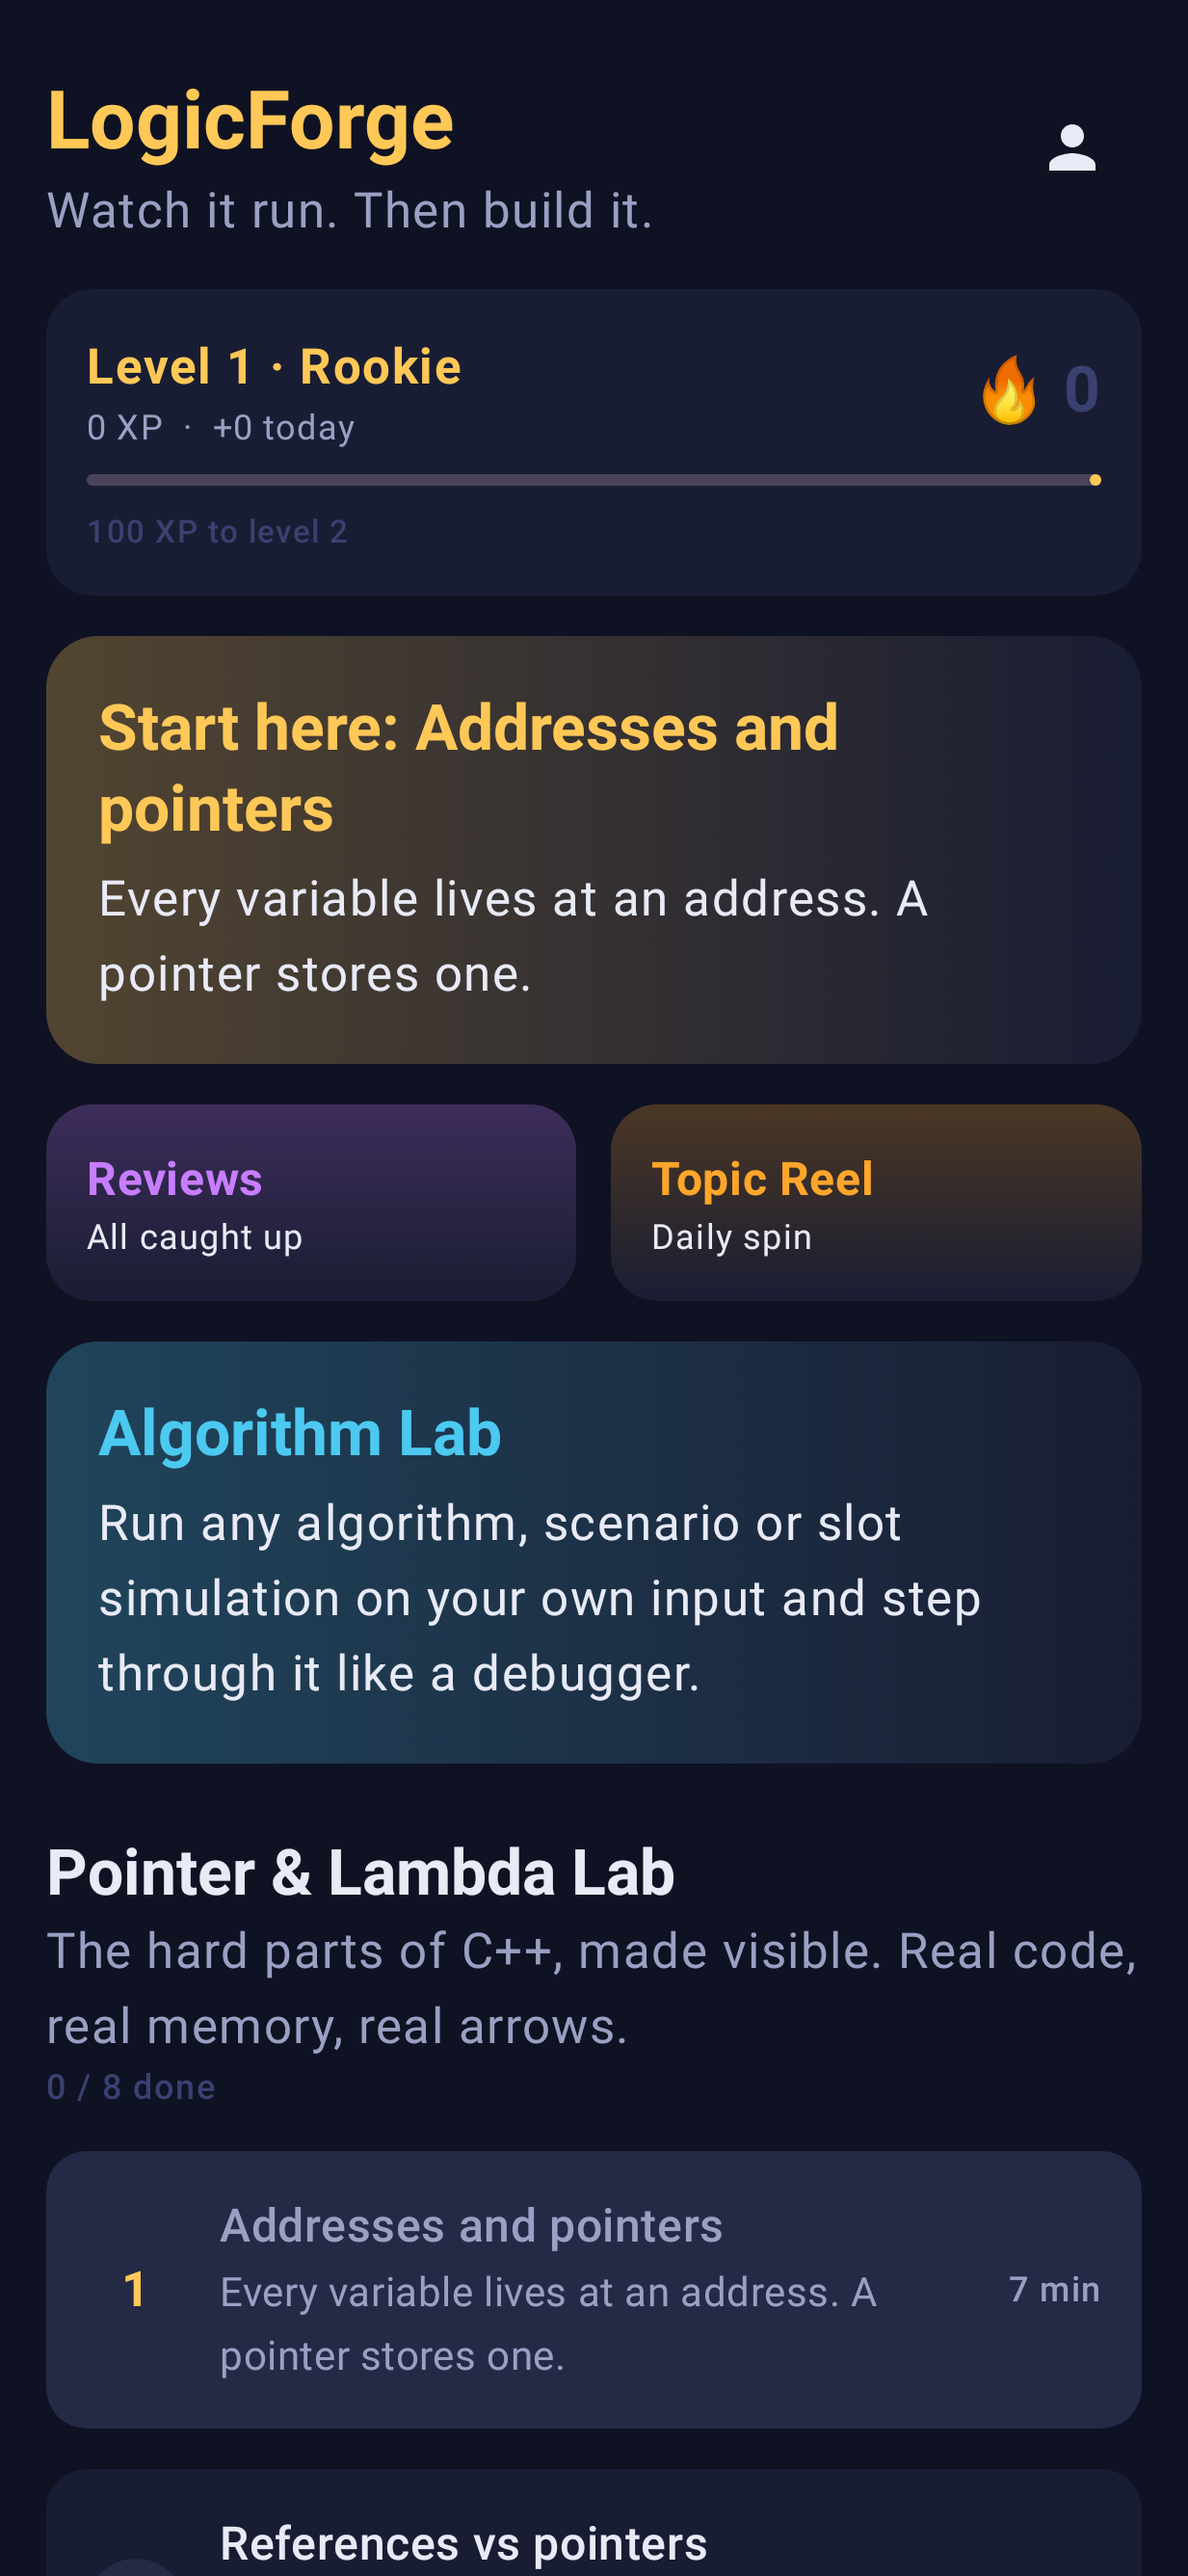
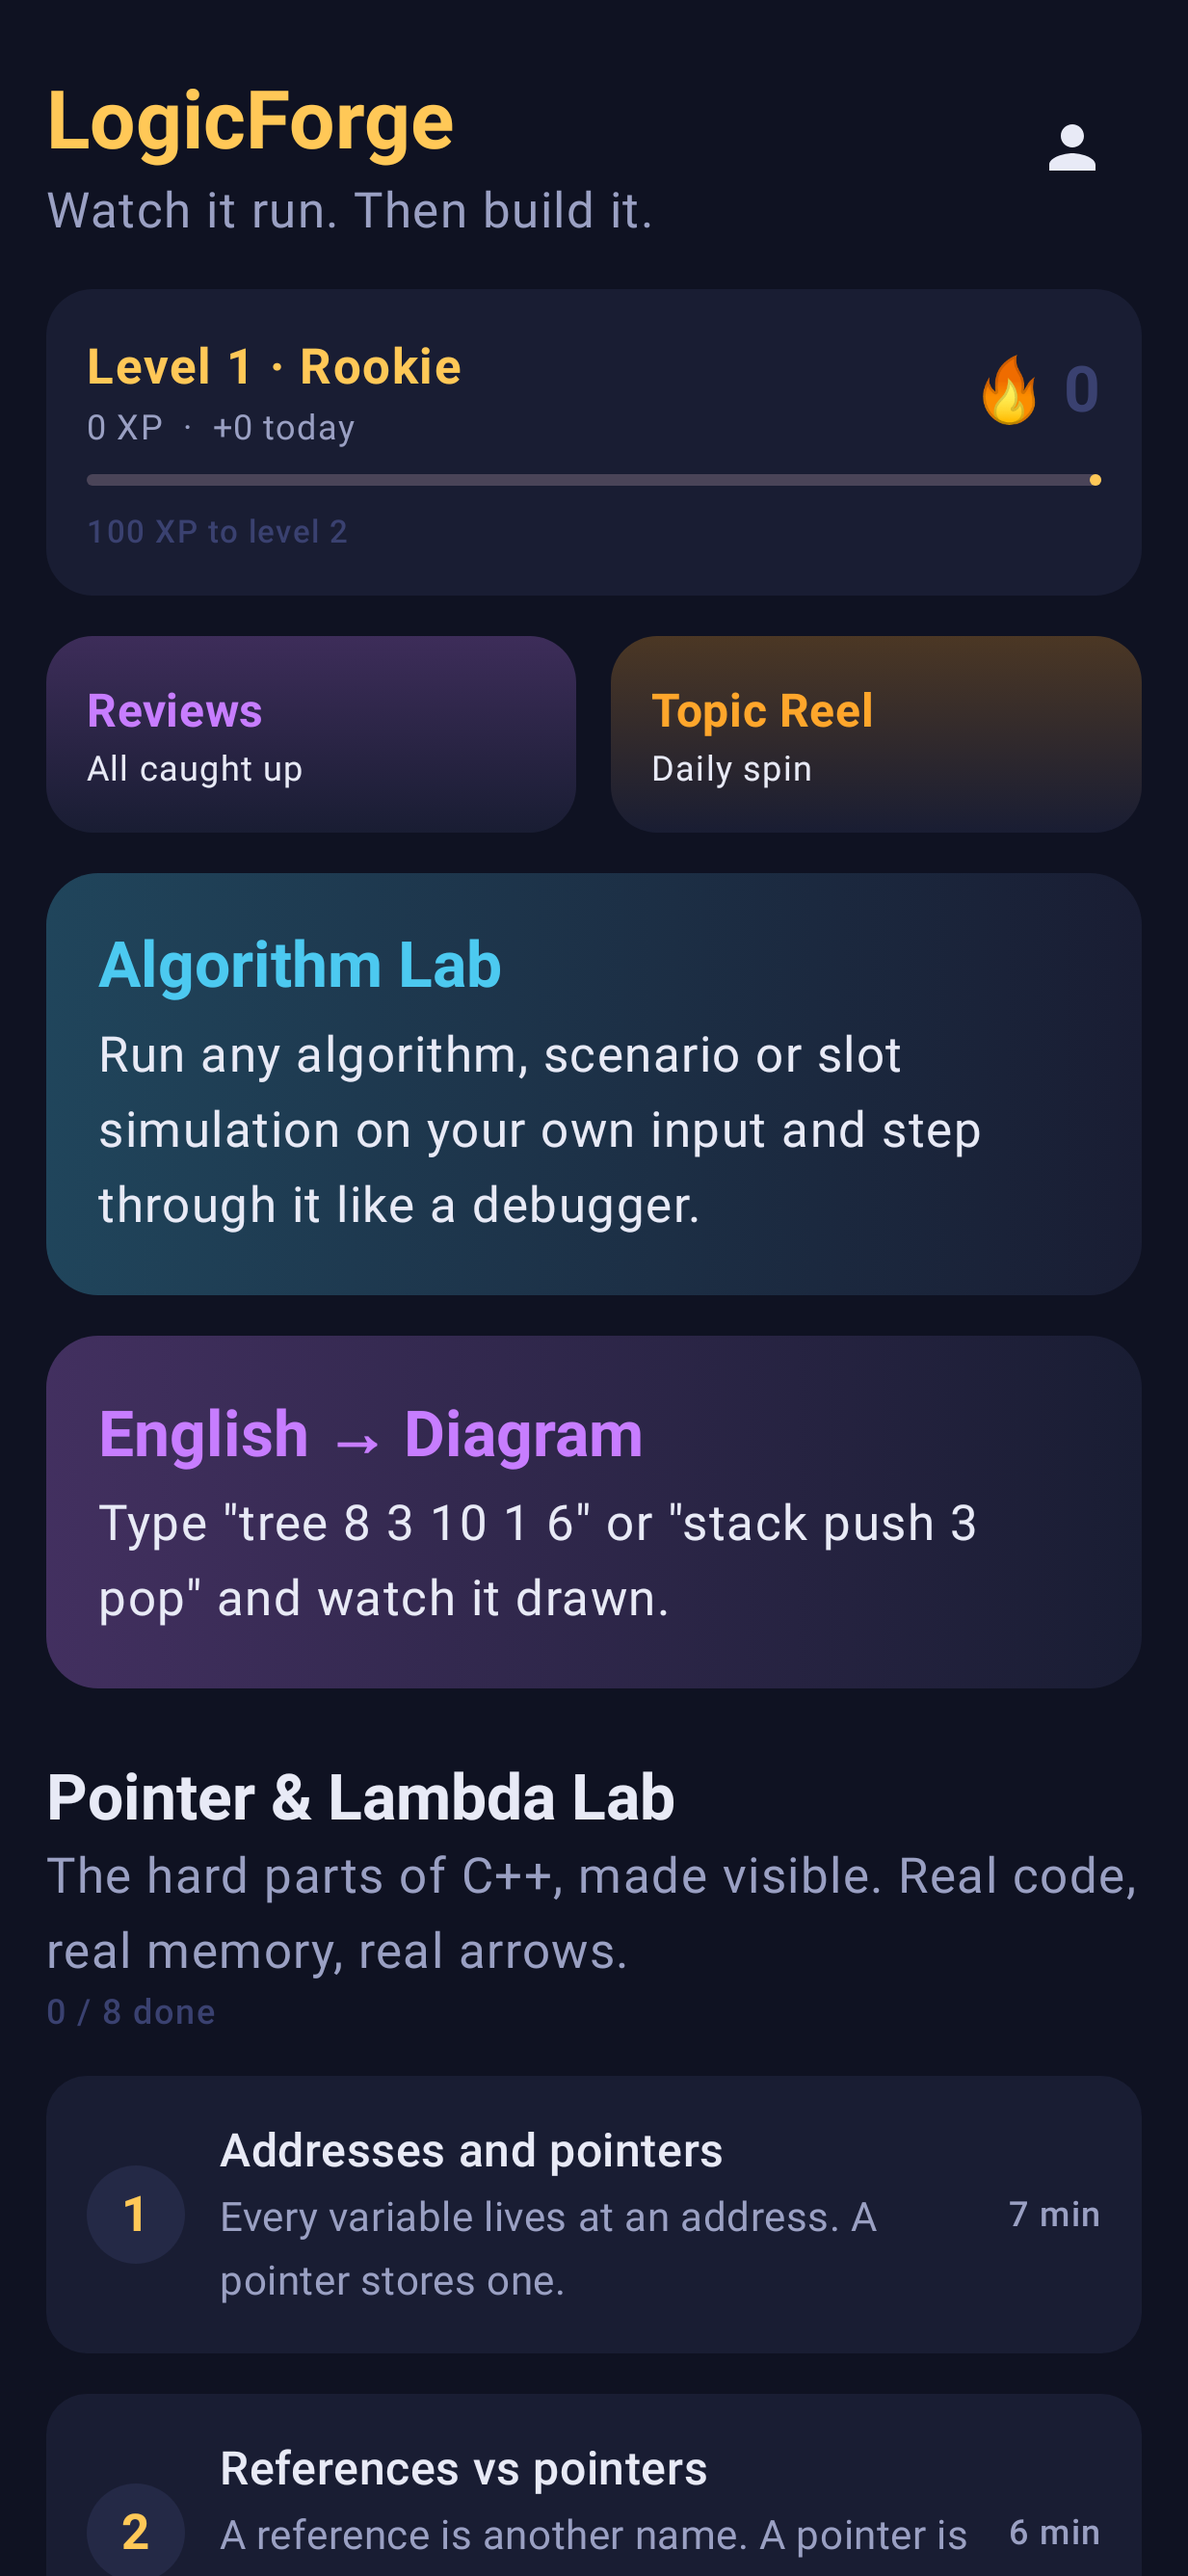
feat(app): add the English -> Diagram sandbox screen
Text box, example chips, the lexer's tokens coloured by type, and the
trace player for the drawing. Linked from Home. Screenshot tests now
also cover the sandbox and the XOR network.

Claude-Session: https://claude.ai/code/session_01DBqEYYB7eF6aerhe2UzoAf

diff --git a/logicforge/app/src/main/java/dev/kuldip/logicforge/ui/sandbox/SandboxScreen.kt b/logicforge/app/src/main/java/dev/kuldip/logicforge/ui/sandbox/SandboxScreen.kt
@@ -1,0 +1,135 @@
+package dev.kuldip.logicforge.ui.sandbox
+
+import androidx.compose.foundation.background
+import androidx.compose.foundation.layout.Arrangement
+import androidx.compose.foundation.layout.Column
+import androidx.compose.foundation.layout.ExperimentalLayoutApi
+import androidx.compose.foundation.layout.FlowRow
+import androidx.compose.foundation.layout.fillMaxSize
+import androidx.compose.foundation.layout.fillMaxWidth
+import androidx.compose.foundation.layout.padding
+import androidx.compose.foundation.rememberScrollState
+import androidx.compose.foundation.shape.RoundedCornerShape
+import androidx.compose.foundation.text.KeyboardActions
+import androidx.compose.foundation.text.KeyboardOptions
+import androidx.compose.foundation.verticalScroll
+import androidx.compose.material3.AssistChip
+import androidx.compose.material3.Button
+import androidx.compose.material3.MaterialTheme
+import androidx.compose.material3.OutlinedTextField
+import androidx.compose.material3.Text
+import androidx.compose.runtime.Composable
+import androidx.compose.runtime.LaunchedEffect
+import androidx.compose.runtime.getValue
+import androidx.compose.runtime.mutableStateOf
+import androidx.compose.runtime.produceState
+import androidx.compose.runtime.remember
+import androidx.compose.runtime.rememberCoroutineScope
+import androidx.compose.runtime.setValue
+import androidx.compose.ui.Modifier
+import androidx.compose.ui.draw.clip
+import androidx.compose.ui.text.input.ImeAction
+import androidx.compose.ui.unit.dp
+import androidx.compose.ui.unit.sp
+import dev.kuldip.logicforge.LocalAppContainer
+import dev.kuldip.logicforge.content.Snippet
+import dev.kuldip.logicforge.core.Trace
+import dev.kuldip.logicforge.ui.common.ScreenScaffold
+import dev.kuldip.logicforge.ui.theme.ForgeColors
+import dev.kuldip.logicforge.ui.theme.Mono
+import dev.kuldip.logicforge.ui.viz.TracePlayer
+import kotlinx.coroutines.launch
+import kotlinx.serialization.json.JsonObject
+import kotlinx.serialization.json.contentOrNull
+import kotlinx.serialization.json.jsonArray
+import kotlinx.serialization.json.jsonObject
+import kotlinx.serialization.json.jsonPrimitive
+
+private val examples = listOf(
+    "tree 8 3 10 1 6 14",
+    "sorted array of 9, 2 and 7",
+    "list 1 -> 2 -> 3",
+    "heap 5 9 3 7 1",
+    "stack push 3 push 4 pop",
+    "queue 1 2 3 dequeue",
+    "graph A-B:4, B-C:1, A->C",
+)
+
+/** Type plain(ish) English, get a diagram. The C++ core lexes, parses and draws it. */
+@OptIn(ExperimentalLayoutApi::class)
+@Composable
+fun SandboxScreen(onBack: () -> Unit) {
+    val container = LocalAppContainer.current
+    var text by remember { mutableStateOf(examples.first()) }
+    var trace by remember { mutableStateOf<Trace?>(null) }
+    var error by remember { mutableStateOf<String?>(null) }
+    val parserSnippet by produceState<Snippet?>(null) { value = container.content.snippets()["dsl.parser"] }
+    val scope = rememberCoroutineScope()
+
+    fun draw() {
+        scope.launch {
+            error = null
+            runCatching { container.forge.dsl(text) }
+                .onSuccess { trace = it }
+                .onFailure { error = it.message; trace = null }
+        }
+    }
+    LaunchedEffect(Unit) { draw() }
+
+    ScreenScaffold(title = "English → Diagram", onBack = onBack) { padding ->
+        Column(
+            Modifier.fillMaxSize().padding(padding).verticalScroll(rememberScrollState()).padding(16.dp),
+            verticalArrangement = Arrangement.spacedBy(12.dp),
+        ) {
+            Text("Describe a data structure and the C++ core draws it.", color = ForgeColors.TextDim)
+            OutlinedTextField(
+                value = text,
+                onValueChange = { text = it },
+                label = { Text("What should I draw?") },
+                singleLine = true,
+                keyboardOptions = KeyboardOptions(imeAction = ImeAction.Done),
+                keyboardActions = KeyboardActions(onDone = { draw() }),
+                modifier = Modifier.fillMaxWidth(),
+            )
+            FlowRow(horizontalArrangement = Arrangement.spacedBy(6.dp)) {
+                for (e in examples) AssistChip(onClick = { text = e; draw() }, label = { Text(e, fontSize = 11.sp) })
+            }
+            Button(onClick = { draw() }) { Text("Draw") }
+            error?.let { Text(it, color = ForgeColors.Red) }
+            trace?.let { t ->
+                TokenRow(t.result as? JsonObject)
+                TracePlayer(t, parserSnippet, showCode = false)
+            }
+            Text(
+                "How it works: a lexer cuts your text into tokens (above), and a recursive-descent parser decides what they mean. See the lesson \"How the sandbox reads English\".",
+                color = ForgeColors.Outline,
+                style = MaterialTheme.typography.bodySmall,
+            )
+        }
+    }
+}
+
+/** The tokens the lexer produced, coloured by type: the first step of every compiler. */
+@OptIn(ExperimentalLayoutApi::class)
+@Composable
+private fun TokenRow(result: JsonObject?) {
+    val tokens = result?.get("tokens")?.jsonArray ?: return
+    FlowRow(horizontalArrangement = Arrangement.spacedBy(4.dp), verticalArrangement = Arrangement.spacedBy(4.dp)) {
+        for (t in tokens) {
+            val o = t.jsonObject
+            val type = o["type"]?.jsonPrimitive?.contentOrNull.orEmpty()
+            val color = when (type) {
+                "word" -> ForgeColors.Magenta
+                "number" -> ForgeColors.Gold
+                else -> ForgeColors.Cyan
+            }
+            Text(
+                o["text"]?.jsonPrimitive?.contentOrNull.orEmpty(),
+                Modifier.clip(RoundedCornerShape(6.dp)).background(ForgeColors.SurfaceHigh).padding(horizontal = 6.dp, vertical = 2.dp),
+                color = color,
+                fontFamily = Mono,
+                fontSize = 12.sp,
+            )
+        }
+    }
+}

diff --git a/logicforge/app/src/main/java/dev/kuldip/logicforge/ui/LogicForgeApp.kt b/logicforge/app/src/main/java/dev/kuldip/logicforge/ui/LogicForgeApp.kt
@@ -10,6 +10,7 @@ import dev.kuldip.logicforge.ui.lesson.LessonScreen
 import dev.kuldip.logicforge.ui.profile.ProfileScreen
 import dev.kuldip.logicforge.ui.reel.TopicReelScreen
 import dev.kuldip.logicforge.ui.review.ReviewScreen
+import dev.kuldip.logicforge.ui.sandbox.SandboxScreen
 import dev.kuldip.logicforge.ui.viz.VisualizerScreen
 
 /** Every screen and how to reach it. */
@@ -21,6 +22,7 @@ object Routes {
     const val REVIEW = "review/{mode}"
     const val REEL = "reel"
     const val PROFILE = "profile"
+    const val SANDBOX = "sandbox"
     fun review(mode: String) = "review/$mode"
     fun viz(id: String) = "viz/$id"
     fun lesson(id: String) = "lesson/$id"
@@ -37,6 +39,7 @@ fun LogicForgeApp() {
                 onOpenReviews = { nav.navigate(Routes.review("due")) },
                 onOpenReel = { nav.navigate(Routes.REEL) },
                 onOpenProfile = { nav.navigate(Routes.PROFILE) },
+                onOpenSandbox = { nav.navigate(Routes.SANDBOX) },
             )
         }
         composable(Routes.LAB) {
@@ -56,6 +59,9 @@ fun LogicForgeApp() {
         }
         composable(Routes.PROFILE) {
             ProfileScreen(onBack = { nav.popBackStack() })
+        }
+        composable(Routes.SANDBOX) {
+            SandboxScreen(onBack = { nav.popBackStack() })
         }
     }
 }

diff --git a/logicforge/app/src/test/java/dev/kuldip/logicforge/ScreenshotTest.kt b/logicforge/app/src/test/java/dev/kuldip/logicforge/ScreenshotTest.kt
@@ -11,6 +11,7 @@ import com.github.takahirom.roborazzi.captureRoboImage
 import dev.kuldip.logicforge.ui.home.HomeScreen
 import dev.kuldip.logicforge.ui.lesson.LessonScreen
 import dev.kuldip.logicforge.ui.reel.TopicReelScreen
+import dev.kuldip.logicforge.ui.sandbox.SandboxScreen
 import dev.kuldip.logicforge.ui.theme.LogicForgeTheme
 import dev.kuldip.logicforge.ui.viz.VisualizerScreen
 import dev.kuldip.logicforge.core.NativeBridge
@@ -103,6 +104,20 @@ class ScreenshotTest {
         show { LessonScreen("ptr.addresses") {} }
         waitForText("Lockers")
         capture("lesson_first_card")
+    }
+
+    @Test
+    fun sandbox() {
+        show { SandboxScreen {} }
+        waitForText("Insert 8")
+        capture("sandbox_tree")
+    }
+
+    @Test
+    fun xorNetwork() {
+        show { VisualizerScreen("ai.xor_network") {} }
+        waitForText("brand-new network")
+        capture("ai_xor_network")
     }
 
     @Test

diff --git a/logicforge/app/src/main/java/dev/kuldip/logicforge/ui/home/HomeScreen.kt b/logicforge/app/src/main/java/dev/kuldip/logicforge/ui/home/HomeScreen.kt
@@ -57,6 +57,7 @@ fun HomeScreen(
     onOpenReviews: () -> Unit,
     onOpenReel: () -> Unit,
     onOpenProfile: () -> Unit,
+    onOpenSandbox: () -> Unit = {},
 ) {
     val container = LocalAppContainer.current
     val learn by container.learn.state.collectAsStateValue()
@@ -135,6 +136,14 @@ fun HomeScreen(
                 subtitle = "Run any algorithm, scenario or slot simulation on your own input and step through it like a debugger.",
                 accent = ForgeColors.Cyan,
                 onClick = onOpenLab,
+            )
+        }
+        item {
+            FeatureCard(
+                title = "English → Diagram",
+                subtitle = "Type \"tree 8 3 10 1 6\" or \"stack push 3 pop\" and watch it drawn.",
+                accent = ForgeColors.Magenta,
+                onClick = onOpenSandbox,
             )
         }
         if (d == null) return@LazyColumn

diff --git a/logicforge/app/src/main/java/dev/kuldip/logicforge/core/Forge.kt b/logicforge/app/src/main/java/dev/kuldip/logicforge/core/Forge.kt
@@ -43,6 +43,9 @@ class Forge(
 
     suspend fun algorithms(): List<AlgoInfo> = ForgeJson.decodeFromJsonElement(call("algo.list"))
 
+    /** English -> Diagram: same shape as a trace, plus the tokens the lexer produced (in result). */
+    suspend fun dsl(text: String): Trace = ForgeJson.decodeFromJsonElement(call("dsl.render", buildJsonObject { put("text", text) }))
+
     suspend fun trace(id: String, input: JsonObject? = null): Trace {
         val args = buildJsonObject {
             put("id", id)
